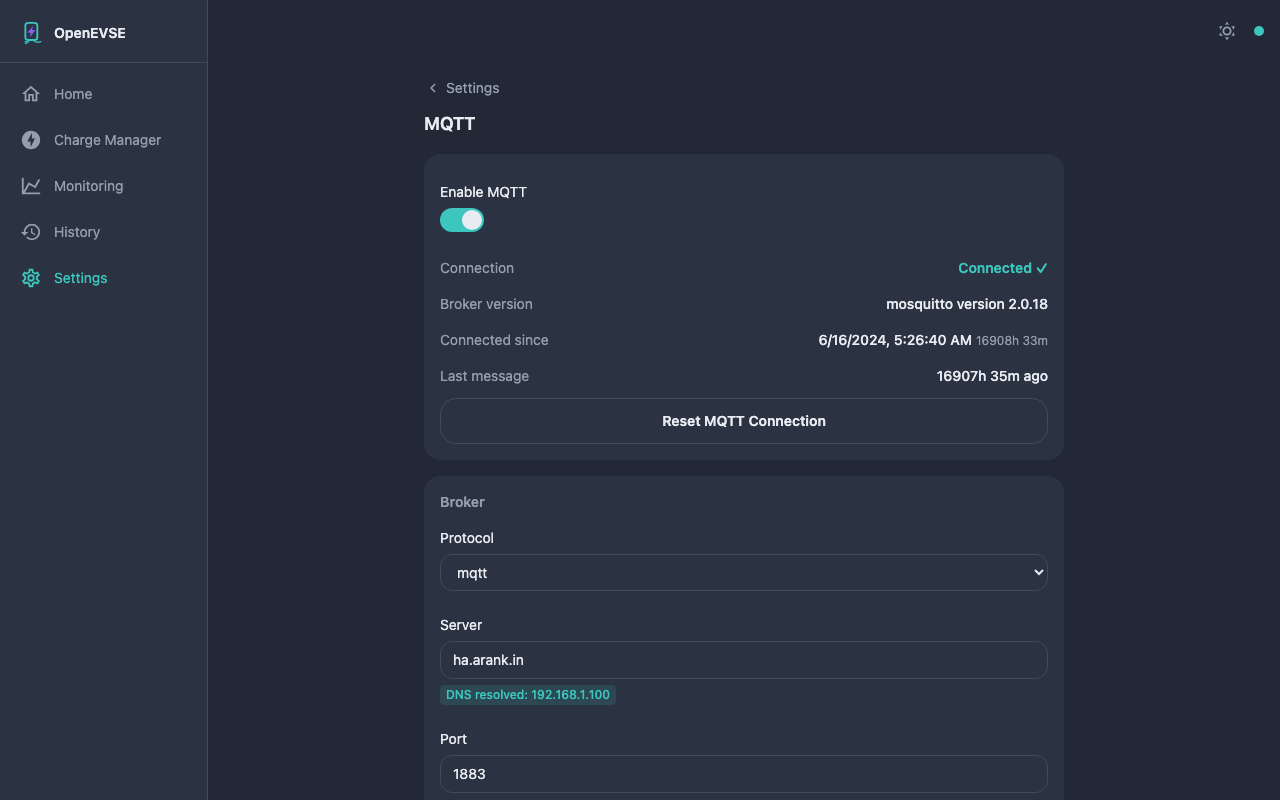
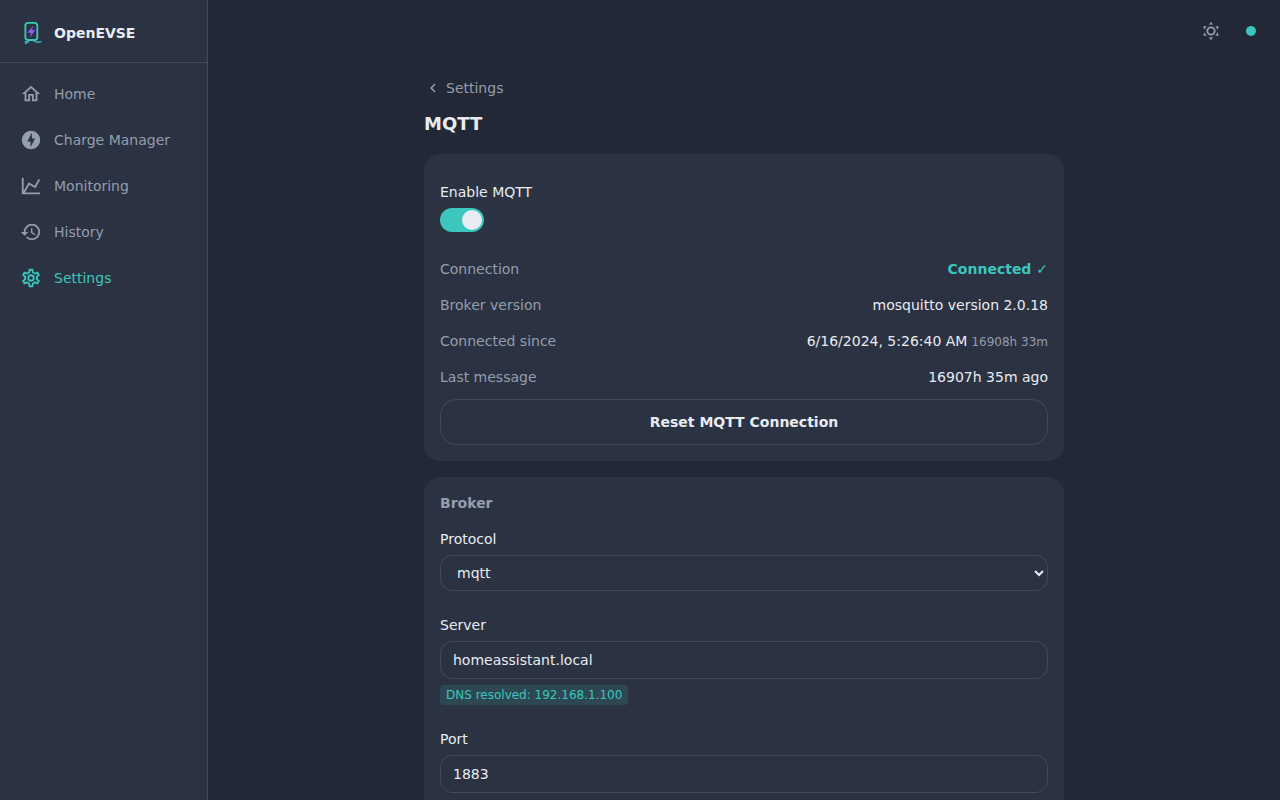
chore: replace personal network details in the dev fixtures (#212)

diff --git a/docs/superpowers/plans/2026-05-25-energy-logging.md b/docs/superpowers/plans/2026-05-25-energy-logging.md
@@ -1478,7 +1478,7 @@ git push -u origin feat/energy-logging
 - [ ] `npm test` — all green
 - [ ] `npm run build` — clean build with `dist/assets/charts-*.js` chunk present
 - [ ] Visual check in `npm run dev:mock`: Monitoring → Energy tab shows chart with mock data; Safety → throttle toggle reveals slider; Dashboard renders cleanly (badge stays hidden until real hardware claim).
-- [ ] Hardware verification deferred: requires firmware PR #1083 merged + flashed onto `10.75.1.144`. Re-test:
+- [ ] Hardware verification deferred: requires firmware PR #1083 merged + flashed onto `192.168.1.50`. Re-test:
   - Live chart populates with real samples
   - "← Older" pages backward, "Current →" snaps forward, "No earlier data" appears at end
   - Daily/Monthly/Annual show data once accumulated

diff --git a/docs/superpowers/AUTONOMOUS-RUNBOOK.md b/docs/superpowers/AUTONOMOUS-RUNBOOK.md
@@ -153,7 +153,7 @@ endpoints + a mock WebSocket. Screens needing data the current fixtures lack mus
   representative log fixture.
 - **Schedule** uses `/schedule` and `/schedule/plan` (already served) — enrich the
   `schedule.json` fixture with representative timers so the screen is viewable.
-Capture from the real device at `10.75.1.144` where possible (it may be unreachable or
+Capture from the real device at `192.168.1.50` where possible (it may be unreachable or
 in any state — fall back to hand-built representative fixtures that match v2's response
 shapes).
 

diff --git a/docs/superpowers/plans/2026-05-22-deferred-features.md b/docs/superpowers/plans/2026-05-22-deferred-features.md
@@ -890,10 +890,10 @@ test asserted the tokens are always visible — remove it; the new tests replace
 
 ```json
 [
-  { "ssid": "Hamkins-IOT", "rssi": -43, "encryption": "wpa2" },
+  { "ssid": "HomeNetwork", "rssi": -43, "encryption": "wpa2" },
   { "ssid": "Neighbour 5G", "rssi": -67, "encryption": "wpa2" },
   { "ssid": "CoffeeShop", "rssi": -78, "encryption": "open" },
-  { "ssid": "Hamkins-IOT", "rssi": -55, "encryption": "wpa2" }
+  { "ssid": "HomeNetwork", "rssi": -55, "encryption": "wpa2" }
 ]
 ```
 

diff --git a/README.md b/README.md
@@ -64,7 +64,7 @@ Point the dev server at a charger by setting `VITE_OPENEVSEHOST` in a `.env` fil
 (copy `.env.example`; default `openevse.local`):
 
 ```bash
-cp .env.example .env        # then edit VITE_OPENEVSEHOST, e.g. 10.75.1.144
+cp .env.example .env        # then edit VITE_OPENEVSEHOST, e.g. 192.168.1.50
 npm install
 npm run dev
 ```
